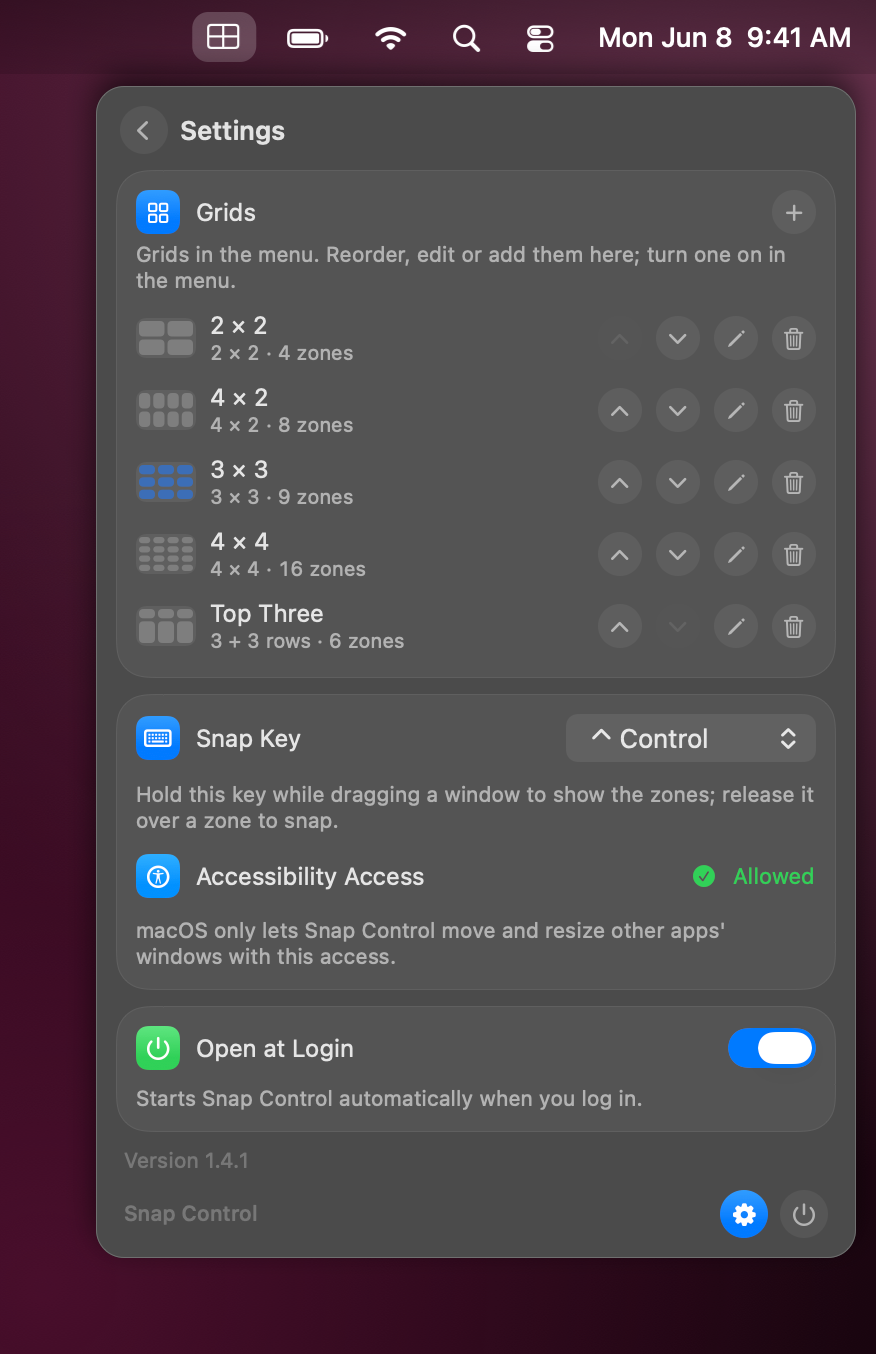
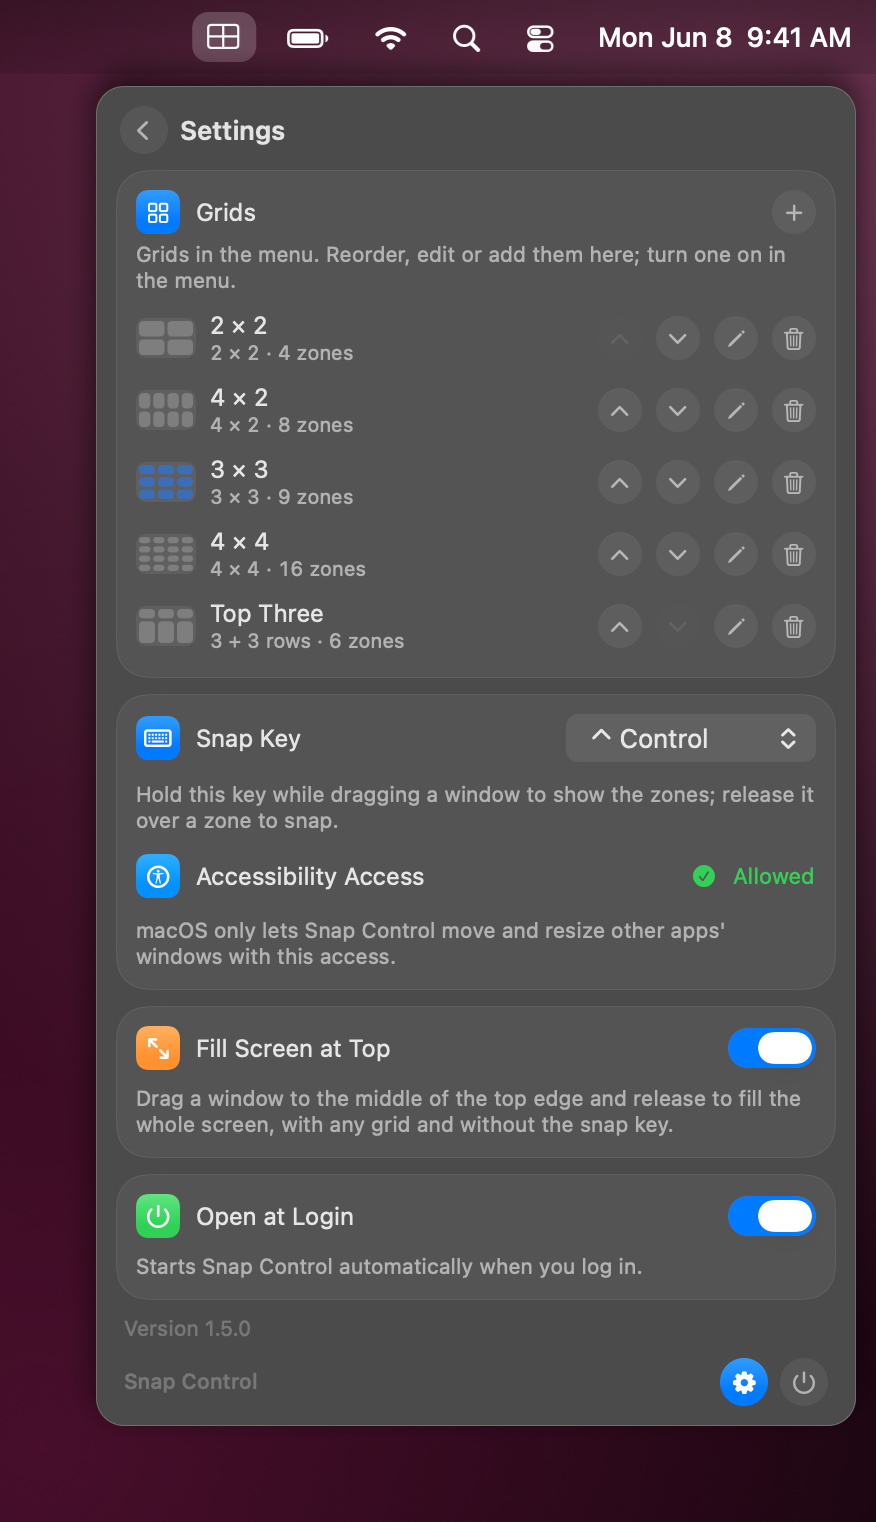
Add optional Fill Screen at Top: dragging a window to the top edge offers the whole screen (1.5.0)

diff --git a/SnapControl/App/Snapper.swift b/SnapControl/App/Snapper.swift
@@ -7,7 +7,8 @@ import os
 ///
 /// Performance: without an active grid there is no monitor (0 % CPU). With a grid only global mouse/key monitors run;
 /// at most one accessibility query for the window per drag, then a position comparison at most every 50 ms
-/// and only while the key is held. The overlay is redrawn only when the zone changes.
+/// and only while the key is held (or, with "Fill Screen at Top" on, during any window drag, so the top strip works
+/// without the key). The overlay is redrawn only when the zone changes.
 @MainActor
 final class Snapper {
     static let shared = Snapper()
@@ -15,6 +16,7 @@ final class Snapper {
     private var monitors: [Any] = []
     private var grid: GridSet?
     private var key: NSEvent.ModifierFlags = .control
+    private var fillAtTop = false
     private let overlay = ZoneOverlay()
     private let log = Logger(subsystem: "io.github.ape97.snapcontrol", category: "snap")
 
@@ -26,14 +28,17 @@ final class Snapper {
     private var moving = false
     private var lastCheck: TimeInterval = 0
     private var target: CGRect?
+    /// The target is the whole-screen strip: it needs no key, like the macOS behavior it replaces.
+    private var targetFillsScreen = false
 
     private init() {}
 
     var isRunning: Bool { !monitors.isEmpty }
 
-    func start(grid: GridSet, key: SnapKey) {
+    func start(grid: GridSet, key: SnapKey, fillAtTop: Bool) {
         self.grid = grid
         self.key = key.flag
+        self.fillAtTop = fillAtTop
         guard monitors.isEmpty else { return }
         let mask: NSEvent.EventTypeMask = [.leftMouseDown, .leftMouseDragged, .leftMouseUp, .flagsChanged]
         if let m = NSEvent.addGlobalMonitorForEvents(matching: mask, handler: { event in
@@ -60,7 +65,7 @@ final class Snapper {
             if !looked { lookUpWindow() }
             update(held: event.modifierFlags.contains(key))
         case .leftMouseUp:
-            let snap = moving && event.modifierFlags.contains(key) ? target : nil
+            let snap = moving && (event.modifierFlags.contains(key) || targetFillsScreen) ? target : nil
             let window = window
             reset()
             if let snap, let window {
@@ -83,7 +88,9 @@ final class Snapper {
     }
 
     private func update(held: Bool) {
-        guard held, let grid else { return hideOverlay() }
+        guard let grid else { return hideOverlay() }
+        // Without the key only the top strip can react, so skip the work for ordinary drags.
+        guard held || fillAtTop else { return hideOverlay() }
         if !moving {
             // Only once the window really moves is it a window drag (not selecting text or the like).
             let now = ProcessInfo.processInfo.systemUptime
@@ -93,15 +100,31 @@ final class Snapper {
             moving = true
         }
         let point = NSEvent.mouseLocation
-        guard let screen = NSScreen.screens.first(where: { NSMouseInRect(point, $0.frame, false) }) ?? NSScreen.main else { return }
-        let frames = Zones.frames(grid, in: screen.visibleFrame)
+        guard let screen = NSScreen.screens.first(where: { Snapper.edgeInclusive($0.frame, contains: point) }) ?? NSScreen.main else { return }
+        // The strip wins over the grid zones; leaving it falls back to the grid (and to nothing without the key).
+        let visible = screen.visibleFrame
+        if TopFill.contains(point, in: visible, enabled: fillAtTop) {
+            target = visible
+            targetFillsScreen = true
+            overlay.show(on: screen, zones: [visible], highlighted: 0)
+            return
+        }
+        targetFillsScreen = false
+        guard held else { return hideOverlay() }
+        let frames = Zones.frames(grid, in: visible)
         guard let i = Zones.index(of: point, in: frames) else { return }
         target = frames[i]
         overlay.show(on: screen, zones: frames, highlighted: i)
     }
 
+    /// `NSMouseInRect` excludes one edge, and the pointer rests exactly on the top edge when a window is thrown at it.
+    private static func edgeInclusive(_ r: CGRect, contains p: CGPoint) -> Bool {
+        p.x >= r.minX && p.x <= r.maxX && p.y >= r.minY && p.y <= r.maxY
+    }
+
     private func hideOverlay() {
         target = nil
+        targetFillsScreen = false
         overlay.hide()
     }
 

diff --git a/SnapControl/App/SelfTest.swift b/SnapControl/App/SelfTest.swift
@@ -85,6 +85,22 @@ enum SelfTest {
         expect(Zones.frames(asRows, in: area) == Zones.frames(GridSet(name: "t", columns: 4, rows: 3), in: area),
                "equal rows layout matches 4×3 grid")
 
+        // Top edge: whole screen only in the middle strip, never with the setting off.
+        let tf0 = CGRect(x: 0, y: 25, width: 1512, height: 919)   // maxY = 944
+        expect(TopFill.contains(CGPoint(x: 756, y: 944), in: tf0, enabled: true), "top fill: middle at the edge")
+        expect(TopFill.contains(CGPoint(x: 756, y: 982), in: tf0, enabled: true), "top fill: middle in the menu bar")
+        expect(TopFill.contains(CGPoint(x: 756, y: 944 - TopFill.band), in: tf0, enabled: true), "top fill: band bottom edge")
+        expect(!TopFill.contains(CGPoint(x: 756, y: 944 - TopFill.band - 1), in: tf0, enabled: true), "top fill: just below the band")
+        expect(!TopFill.contains(CGPoint(x: 756, y: 800), in: tf0, enabled: true), "top fill: deeper in the screen")
+        expect(!TopFill.contains(CGPoint(x: 10, y: 944), in: tf0, enabled: true), "top fill: top left corner")
+        expect(!TopFill.contains(CGPoint(x: 1500, y: 960), in: tf0, enabled: true), "top fill: top right corner")
+        expect(TopFill.contains(CGPoint(x: 1512 * 0.15, y: 944), in: tf0, enabled: true), "top fill: inner side boundary")
+        expect(!TopFill.contains(CGPoint(x: 1512 * 0.15 - 1, y: 944), in: tf0, enabled: true), "top fill: just inside the corner")
+        expect(!TopFill.contains(CGPoint(x: 756, y: 944), in: tf0, enabled: false), "top fill: off never triggers")
+        let second = CGRect(x: 1512, y: -300, width: 1920, height: 1055)   // display to the right, shifted
+        expect(TopFill.contains(CGPoint(x: 1512 + 960, y: 755), in: second, enabled: true), "top fill: second display")
+        expect(!TopFill.contains(CGPoint(x: 756, y: 944), in: second, enabled: true), "top fill: other display's strip")
+
         // Storage: own test domain, never the user's list.
         let store = GridStore(defaults: AppModel.scratchDefaults())
         expect(store.loadSets() == GridSet.defaults, "empty store → defaults")
@@ -112,6 +128,9 @@ enum SelfTest {
         expect(store.loadActive() == nil, "deactivate clears active")
         store.key = .option
         expect(store.key == .option, "snap key round trip")
+        expect(!store.fillAtTop, "fill at top is off by default")
+        store.fillAtTop = true
+        expect(store.fillAtTop, "fill at top round trip")
         store.defaults.set(Data("x".utf8), forKey: "sets")
         expect(store.loadSets() == GridSet.defaults, "corrupt list → defaults")
 

diff --git a/SnapControl/App/Grids.swift b/SnapControl/App/Grids.swift
@@ -159,6 +159,24 @@ enum SnapKey: String, Codable, CaseIterable {
     var title: String { "\(symbol) \(rawValue.capitalized)" }
 }
 
+/// The "fill the screen" strip at the top edge, like the built-in macOS behavior that Snap Control switches off.
+/// Pure geometry, so the self-test can check it without AppKit state.
+enum TopFill {
+    /// Depth of the strip below the top edge of the usable area. The pointer of a dragged window usually rests on the
+    /// menu bar itself (the screen stops it at its top edge), so the strip reaches up to the screen edge and the
+    /// 8 pt below the menu bar only forgive a slightly short throw; deeper would collide with ordinary title bar drags.
+    static let band: CGFloat = 8
+    /// Share of the width kept free on each side, so the top corners stay available for the zones next to them.
+    static let side: CGFloat = 0.15
+
+    /// True if `point` (Cocoa coordinates) lies in the strip of `visible` (the screen minus menu bar and Dock).
+    static func contains(_ point: CGPoint, in visible: CGRect, enabled: Bool) -> Bool {
+        guard enabled, !visible.isEmpty else { return false }
+        let inset = visible.width * side
+        return point.y >= visible.maxY - band && point.x >= visible.minX + inset && point.x <= visible.maxX - inset
+    }
+}
+
 /// Sets, active grid and key in UserDefaults (JSON). If the list is missing or unreadable, the defaults apply.
 struct GridStore {
     var defaults: UserDefaults
@@ -197,6 +215,12 @@ struct GridStore {
     var key: SnapKey {
         get { defaults.string(forKey: "snapKey").flatMap(SnapKey.init) ?? .control }
         nonmutating set { defaults.set(newValue.rawValue, forKey: "snapKey") }
+    }
+
+    /// Offer the whole usable screen when a window is dragged to the top edge (off by default).
+    var fillAtTop: Bool {
+        get { defaults.bool(forKey: "fillAtTop") }
+        nonmutating set { defaults.set(newValue, forKey: "fillAtTop") }
     }
 
     /// Saved macOS values for the built-in snapping (nil = nothing switched off). See `MacTiling`.

diff --git a/SnapControl/App/AppModel.swift b/SnapControl/App/AppModel.swift
@@ -21,6 +21,8 @@ final class AppModel {
     /// Active grid (a saved set or a custom, unsaved one); nil = off.
     private(set) var active: GridSet?
     private(set) var snapKey: SnapKey
+    /// Dragging a window to the top edge offers the whole screen, whichever grid is active.
+    private(set) var fillAtTop: Bool
     /// Accessibility permission granted – without it, other apps' windows cannot be moved.
     private(set) var isTrusted = WindowAX.isTrusted
 
@@ -44,6 +46,7 @@ final class AppModel {
         sets = store.loadSets()
         active = store.loadActive()
         snapKey = store.key
+        fillAtTop = store.fillAtTop
         if !Runtime.headless {
             observeMenu()
             observeTrust()
@@ -88,7 +91,7 @@ final class AppModel {
         Snapper.shared.stop()
         if let active {
             tiling.disable()
-            Snapper.shared.start(grid: active, key: snapKey)
+            Snapper.shared.start(grid: active, key: snapKey, fillAtTop: fillAtTop)
         } else {
             tiling.restore()
         }
@@ -140,6 +143,12 @@ final class AppModel {
     func setSnapKey(_ key: SnapKey) {
         snapKey = key
         store.key = key
+        restartSnapper()
+    }
+
+    func setFillAtTop(_ on: Bool) {
+        fillAtTop = on
+        store.fillAtTop = on
         restartSnapper()
     }
 
@@ -223,6 +232,7 @@ final class AppModel {
         let grid = Runtime.value(after: "--grid") ?? "3x3"
         active = Runtime.arguments.contains("--off") ? nil : sets.first { $0.demoID == grid }
         isTrusted = !Runtime.arguments.contains("--untrusted")
+        fillAtTop = true   // shown switched on (in memory only)
     }
 
     /// Performance test: exactly one update as with the menu open (e.g. a tick with new values).

diff --git a/SnapControl/UI/SettingsPage.swift b/SnapControl/UI/SettingsPage.swift
@@ -62,6 +62,19 @@ struct SettingsPage: View {
 
             Module {
                 HStack {
+                    SettingLabel(symbol: "arrow.up.left.and.arrow.down.right", title: "Fill Screen at Top", tint: .orange)
+                    Spacer()
+                    Toggle("Fill Screen at Top", isOn: Binding(get: { model.fillAtTop }, set: { model.setFillAtTop($0) }))
+                        .labelsHidden()
+                        .toggleStyle(.setting)
+                        .controlSize(.small)
+                        .help("Dragging a window to the middle of the top edge fills the whole screen")
+                }
+                SettingNote("Drag a window to the middle of the top edge and release to fill the whole screen, with any grid and without the snap key.")
+            }
+
+            Module {
+                HStack {
                     SettingLabel(symbol: "power", title: "Open at Login", tint: .green)
                     Spacer()
                     Toggle("Open at Login", isOn: Binding(get: { launchAtLogin }, set: { LoginItem.set($0); launchAtLogin = LoginItem.isEnabled }))

diff --git a/README.md b/README.md
@@ -26,6 +26,14 @@
 
 Pick a grid in the menu, hold Control while dragging a window and release it over a zone. Switch from 2 × 2 to 3 × 3 at any time; the zones follow the active grid.
 
+### Fill the screen from the top edge
+
+<p align="center">
+  <img src="docs/images/fill.gif" alt="Dragging a window to the middle of the top edge lights up the whole screen; releasing fills it" width="720">
+</p>
+
+With **Fill Screen at Top** switched on (Settings), dragging a window to the middle of the top edge offers the whole usable screen, whichever grid is active, like the macOS behavior that Snap Control otherwise switches off. No snap key needed.
+
 <sub>The animations are rendered by the app itself from invented demo data; nothing on your Mac is recorded.</sub>
 
 ## Features
@@ -33,6 +41,7 @@ Pick a grid in the menu, hold Control while dragging a window and release it ove
 - **Saved grids**: named sets; defaults are 2 × 2, 4 × 2, 3 × 3 and 4 × 4, each with 1–8 columns and rows.
 - **Custom layouts**: instead of an equal grid, split into rows (top to bottom) or columns (left to right). Each strip has a size (1×–4×, its share of the height or width) and 1–8 windows, up to 6 strips. Example: 3 small windows on top and 3 large ones below.
 - **Snap by dragging**: drag a window and hold the key, and all zones of the active grid appear in the accent color with the zone under the pointer highlighted. Release the mouse and the window fills exactly that zone (per display, excluding menu bar and Dock).
+- **Fill Screen at Top** (optional, off by default): drag a window to the middle of the top edge (outer 15 % on each side excluded) and release to fill the whole usable screen, with any grid and without the snap key.
 - **Your key**: Control (default), Option, Command or Shift.
 - **No clash with macOS**: while a grid is active, the built-in macOS window snapping is switched off, because it intercepts the Option key. The previous values are saved and restored when you switch the grid off or quit.
 
@@ -46,7 +55,7 @@ Pick a grid in the menu, hold Control while dragging a window and release it ove
 <table>
   <tr>
     <td align="center"><img src="docs/images/off-dark.png" width="360"><br>Grid off: snapping paused, saved grids kept</td>
-    <td align="center"><img src="docs/images/settings-dark.png" width="360"><br>Settings: grid list, snap key, Accessibility, login</td>
+    <td align="center"><img src="docs/images/settings-dark.png" width="360"><br>Settings: grid list, snap key, Accessibility, Fill Screen at Top, login</td>
   </tr>
   <tr>
     <td align="center"><img src="docs/images/editor-dark.png" width="360"><br>Editor: equal grid with columns and rows</td>
@@ -74,7 +83,7 @@ To uninstall, switch the active grid off (this restores the macOS snapping value
 
 - Click the menu bar item and pick a grid from **Saved Grids** to activate it; click the active grid again to switch it off.
 - With a grid active, drag a window, hold the snap key (Control by default), move the pointer over a zone and release the mouse.
-- Settings (gear icon): edit, reorder and add grids, choose the snap key, check the Accessibility permission and **Open at Login**.
+- Settings (gear icon): edit, reorder and add grids, choose the snap key, check the Accessibility permission, switch on **Fill Screen at Top** and **Open at Login**.
 
 ## Build from source
 
